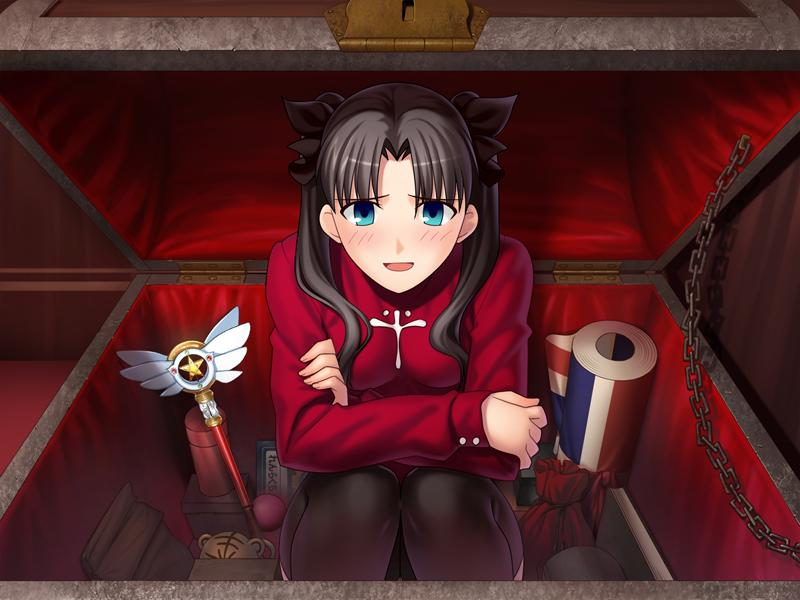
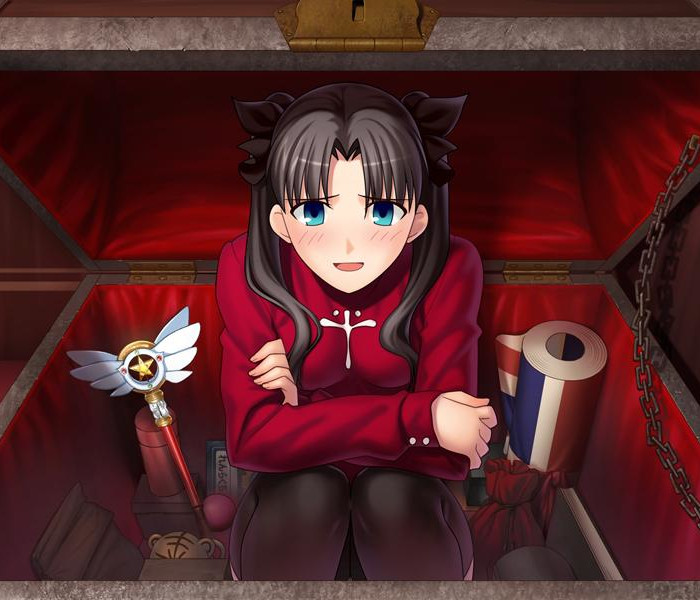
Resize Background Images and Add separate library for Hard Mode

diff --git a/minesweeper.js b/minesweeper.js
@@ -85,26 +85,63 @@ function musicPlayer() {}
 
 // function to generate background image
 function generateBackground() {
-  const backgroundImages = [
-    "url('./assets/background-images/image_1.png')",
-    "url('./assets/background-images/image_2.png')",
-    "url('./assets/background-images/image_3.png')",
-    "url('./assets/background-images/image_4.png')",
-    "url('./assets/background-images/image_5.png')",
-    "url('./assets/background-images/image_6.png')",
-    "url('./assets/background-images/image_7.png')",
-    "url('./assets/background-images/image_8.jpg')",
-    "url('./assets/background-images/image_9.jpg')",
-    "url('./assets/background-images/image_10.jpg')",
-    "url('./assets/background-images/image_11.jpg')",
-    "url('./assets/background-images/image_12.jpg')",
-    "url('./assets/background-images/image_13.jpg')",
-    "url('./assets/background-images/image_14.png')",
-    "url('./assets/background-images/image_15.png')",
-    "url('./assets/background-images/image_16.png')",
-    "url('./assets/background-images/gif_1.gif')",
-    "url('./assets/background-images/gif_2.gif')",
-  ];
+  let backgroundImages;
+  if (gameMode === "hard") {
+    backgroundImages = [
+      "url('./assets/hard-background-images/image_01.png')",
+      "url('./assets/hard-background-images/image_02.png')",
+      "url('./assets/hard-background-images/image_03.png')",
+      "url('./assets/hard-background-images/image_04.png')",
+      "url('./assets/hard-background-images/image_05.png')",
+      "url('./assets/hard-background-images/image_06.png')",
+      "url('./assets/hard-background-images/image_07.png')",
+      "url('./assets/hard-background-images/image_08.png')",
+      "url('./assets/hard-background-images/image_09.png')",
+      "url('./assets/hard-background-images/image_10.png')",
+      "url('./assets/hard-background-images/image_11.png')",
+      "url('./assets/hard-background-images/image_12.png')",
+      "url('./assets/hard-background-images/image_13.jpg')",
+      "url('./assets/hard-background-images/image_14.png')",
+      "url('./assets/hard-background-images/image_15.png')",
+      "url('./assets/hard-background-images/image_16.png')",
+      "url('./assets/hard-background-images/image_17.jpg')",
+      "url('./assets/hard-background-images/image_18.jpg')",
+    ];
+  } else {
+    backgroundImages = [
+      "url('./assets/background-images/image_01.png')",
+      "url('./assets/background-images/image_02.png')",
+      "url('./assets/background-images/image_03.png')",
+      "url('./assets/background-images/image_04.png')",
+      "url('./assets/background-images/image_05.png')",
+      "url('./assets/background-images/image_06.png')",
+      "url('./assets/background-images/image_07.png')",
+      "url('./assets/background-images/image_08.jpg')",
+      "url('./assets/background-images/image_09.jpg')",
+      "url('./assets/background-images/image_10.jpg')",
+      "url('./assets/background-images/image_11.jpg')",
+      "url('./assets/background-images/image_12.jpg')",
+      "url('./assets/background-images/image_13.jpg')",
+      "url('./assets/background-images/image_14.png')",
+      "url('./assets/background-images/image_15.png')",
+      "url('./assets/background-images/image_16.png')",
+      "url('./assets/background-images/image_17.png')",
+      "url('./assets/background-images/image_18.jpg')",
+      "url('./assets/background-images/image_19.png')",
+      "url('./assets/background-images/image_20.png')",
+      "url('./assets/background-images/image_21.png')",
+      "url('./assets/background-images/image_22.png')",
+      "url('./assets/background-images/image_23.png')",
+      "url('./assets/background-images/image_24.png')",
+      "url('./assets/background-images/image_25.png')",
+      "url('./assets/background-images/image_26.png')",
+      "url('./assets/background-images/image_27.png')",
+      "url('./assets/background-images/image_28.png')",
+      "url('./assets/background-images/gif_01.gif')",
+      "url('./assets/background-images/gif_02.gif')",
+    ];
+  }
+  
   const rand = Math.floor(Math.random() * backgroundImages.length);
   const board = document.getElementsByClassName("board")[0];
   board.style.backgroundImage = backgroundImages[rand];
@@ -164,7 +201,7 @@ function gameOver(id) {
       cell.classList.remove("flagged");
     });
     document.getElementsByClassName("display-button")[0].style.display = "initial";
-    document.getElementsByClassName("flags-left")[0].innerHTML = "";
+    document.getElementsByClassName("flags-left")[0].innerHTML = "Congratulations!";
     displaySwitch();
   }
 }
